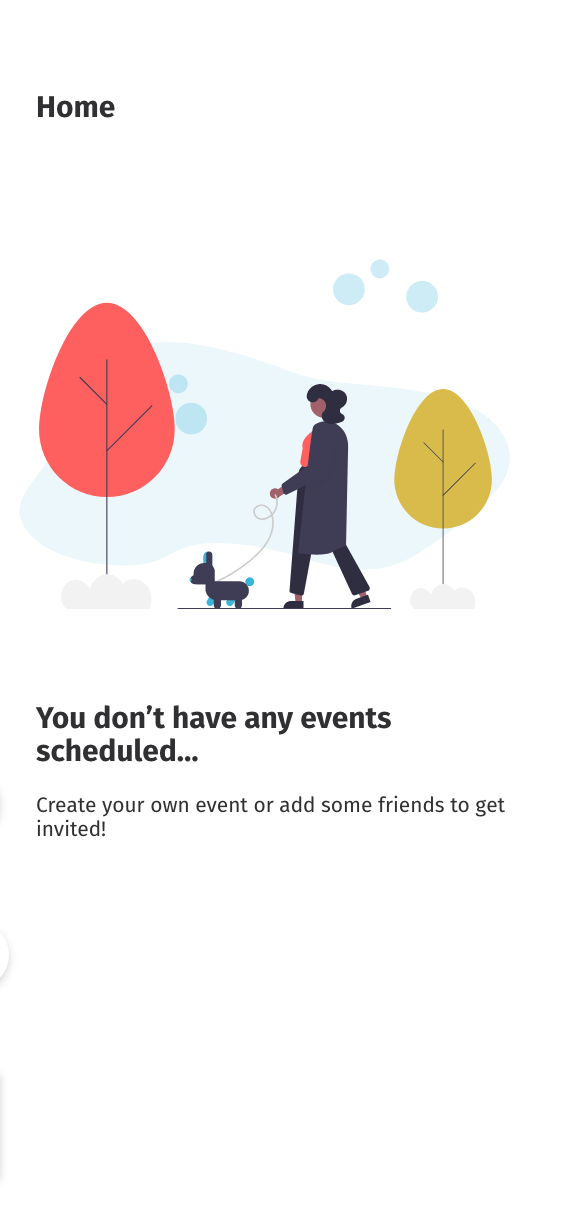
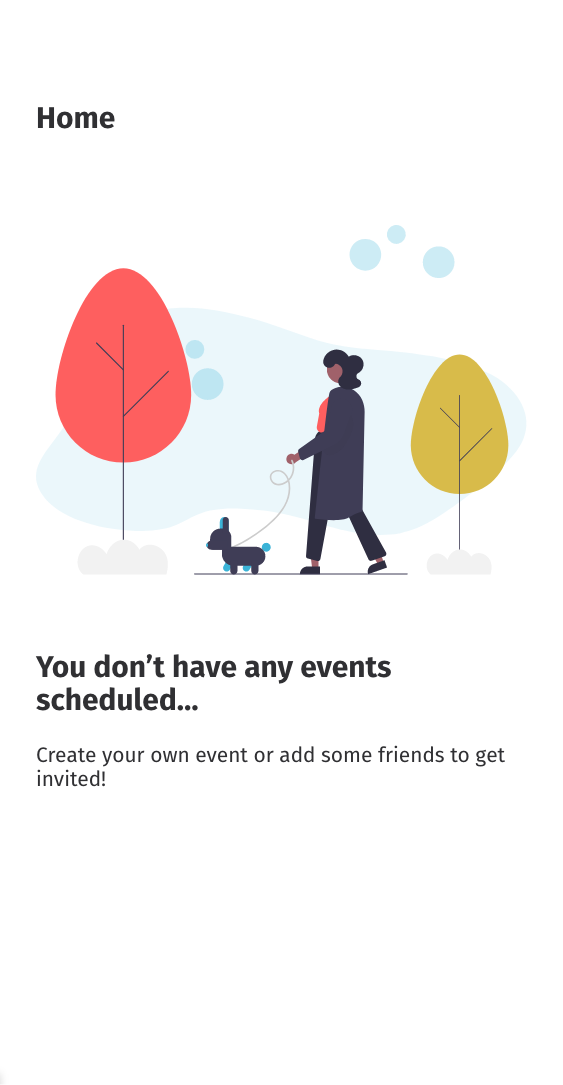
added buttons to empty home state

diff --git a/src/screens/home/HomeScreenEmpty.js b/src/screens/home/HomeScreenEmpty.js
@@ -4,17 +4,30 @@ import {TouchableOpacity} from 'react-native';
 import emptyHome from "../../../assets/NavBarAssets/emptyHome.png";
 import styles from "../../styles/styles";
 import { Dimensions } from 'react-native';
-// import {widthPercentageToDP,heightPercentageToDP,} from '../../../util/scaler';
+import {widthPercentageToDP,heightPercentageToDP,} from '../../../util/scaler';
 import React, {useEffect, useState} from "react";
 import NavBar from "../../navbars/NarBar";
-
+import createNewEventBtn from "../../../assets/NavBarAssets/createNewEventBtn.png"
+import addFriendsBtn from "../../../assets/NavBarAssets/addFriendsBtn.png"
 
 function HomeScreenEmpty({}) {
     const navigation = useNavigation()
 
     return (
         <View style={{flex: 1}}>    
-            <ImageBackground source={emptyHome} style={styles.homefull}>
+            <ImageBackground source={emptyHome} style={styles.homeEmpty}>
+            <View style={{ flexDirection: 'column', justifyContent: 'center',marginTop:widthPercentageToDP(3)}}>
+                <TouchableOpacity onPress={() => { 
+                    // navigation.navigate('HomeScreenEmpty')
+                }}>
+                    <Image source={createNewEventBtn} style={{height: heightPercentageToDP('20'), width :widthPercentageToDP('70'), bottom: heightPercentageToDP('-38'), resizeMode:'contain' }} />
+                </TouchableOpacity>
+                <TouchableOpacity onPress={() => { 
+                    // navigation.navigate('HomeScreenEmpty')
+                }}>
+                    <Image source={addFriendsBtn} style={{height: heightPercentageToDP('20'), width :widthPercentageToDP('70'), bottom: heightPercentageToDP('-25'), resizeMode:'contain' }} />
+                </TouchableOpacity>
+            </View>
             </ImageBackground>
             <NavBar/>
         </View>

diff --git a/src/navbars/NarBar.js b/src/navbars/NarBar.js
@@ -17,7 +17,7 @@ function NavBar({}){
 
     
     return(
-        <View style={{ backgroundColor:'white',  alignItems:'center', alignContent:'center', width: widthPercentageToDP('100'), height: heightPercentageToDP('10') }}>
+        <View style={{ backgroundColor:'white',  border: "black", alignItems:'center', alignContent:'center', width: widthPercentageToDP('100'), height: heightPercentageToDP('10'), paddigBottom:'10' }}>
             <View style={{flexDirection:'row', width:'90%', justifyContent: 'space-between', paddingBottom:10}}>
                 <TouchableOpacity onPress={() => { 
                     navigation.navigate('HomeScreenEmpty')

diff --git a/src/styles/styles.js b/src/styles/styles.js
@@ -1,16 +1,16 @@
 import {StyleSheet} from "react-native";
 // import { Dimensions } from 'react-native';
-// import {widthPercentageToDP,heightPercentageToDP} from '../../util/scaler'
+import {widthPercentageToDP,heightPercentageToDP} from '../../util/scaler'
 
 const styles = StyleSheet.create({
 
-    homefull: {
+    homeEmpty: {
         flex: 1,
-        resizeMode:'cover',
+        resizeMode:'contain',
         justifyContent: 'center',
         alignItems: 'center',
         width:'100%',
-        opacity: 1,
+        opacity: 1
     }
 
 })
